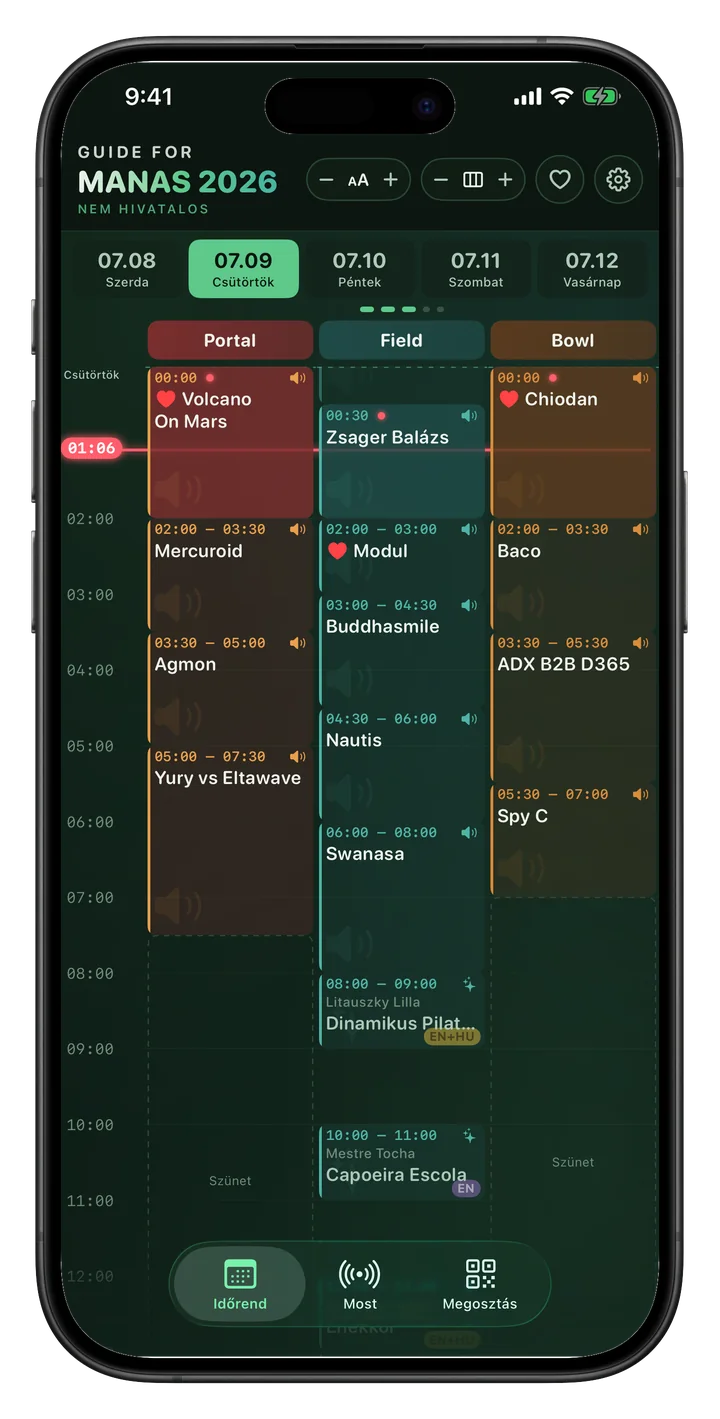
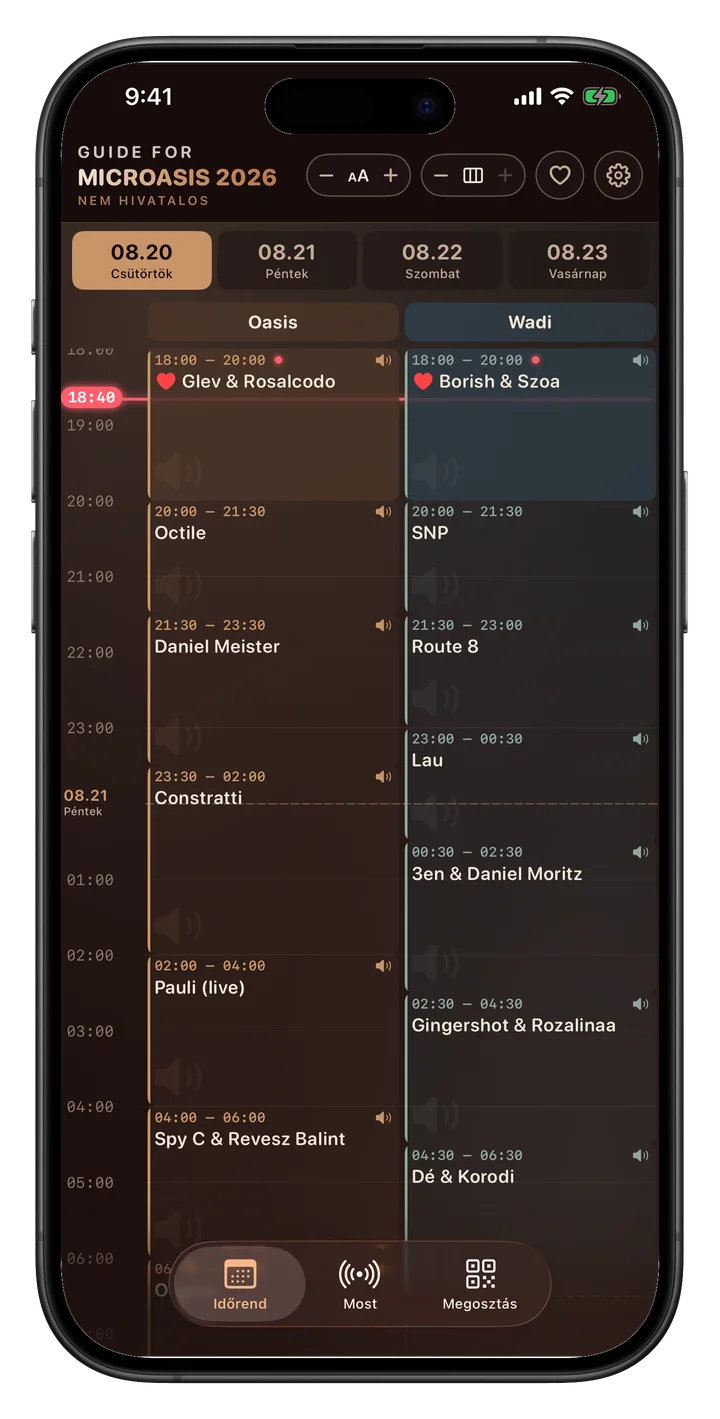
feat: regenerate every marketing asset for MicrOasis
New simulator captures (14 shots × HU/EN) replace the Manas ones, driven by the
rewritten shot list: opening-evening timetable, a live Friday Now, the Wadi's
single-column view, the camp scene, both home widgets, the favorites filter,
and the watch cards including its quiet Sunday-daytime break.

From those, the landing pipeline rebuilds the framed phone/watch images, the
hero composites and the OpenGraph card. The builder's own palette was still the
Manas forest green — the OG background ramp, the "2026" in the wordmark and the
trust pills are now the earthy tokens, mirroring globals.css.

Shot keys are renamed through the whole chain (screenshots.yaml →
build_landing_images.py → lib/showcase.ts → WatchSection), and STAGE_ACCENTS
drops the three stages that no longer exist.

diff --git a/pwa/components/showcase/WatchSection.tsx b/pwa/components/showcase/WatchSection.tsx
@@ -26,21 +26,21 @@ export function WatchSection() {
           <Reveal className="flex items-center justify-center">
             <Framed
               kind="watch"
-              src={framedWatch(locale, "nowTerrace")}
+              src={framedWatch(locale, "nowWadi")}
               alt="Apple Watch — Terrace"
               className="z-0 w-[30vw] max-w-[124px] -rotate-[14deg] translate-y-4 opacity-75"
               sizes="124px"
             />
             <Framed
               kind="watch"
-              src={framedWatch(locale, "nowPortal")}
+              src={framedWatch(locale, "nowOasis")}
               alt="Apple Watch — Portal"
               className="z-10 -mx-6 w-[42vw] max-w-[176px]"
               sizes="(max-width: 640px) 42vw, 176px"
             />
             <Framed
               kind="watch"
-              src={framedWatch(locale, "nowMandala")}
+              src={framedWatch(locale, "nowQuiet")}
               alt="Apple Watch — Mandala"
               className="z-0 w-[30vw] max-w-[124px] rotate-[14deg] translate-y-4 opacity-75"
               sizes="124px"
@@ -61,7 +61,7 @@ export function WatchSection() {
           <Reveal className="flex items-center justify-center sm:order-2">
             <Framed
               kind="watch"
-              src={framedWatch(locale, "widgetField")}
+              src={framedWatch(locale, "widgetWadi")}
               alt="Smart Stack widget — Field"
               className="z-0 w-[32vw] max-w-[140px] -rotate-[10deg] translate-y-3 opacity-80"
               glow={field}
@@ -69,7 +69,7 @@ export function WatchSection() {
             />
             <Framed
               kind="watch"
-              src={framedWatch(locale, "widgetPortal")}
+              src={framedWatch(locale, "widgetOasis")}
               alt="Smart Stack widget — Portal"
               className="z-10 -ml-6 w-[42vw] max-w-[176px]"
               glow={portal}

diff --git a/pwa/lib/showcase.ts b/pwa/lib/showcase.ts
@@ -21,18 +21,18 @@ export const PHONE_SHOTS = {
   timetableThu: "iphone-01-timetable-thursday",
   timetableFri: "iphone-02-timetable-friday",
   now: "iphone-03-now-friday",
-  terrace: "iphone-04-timetable-terrace",
+  wadi: "iphone-04-timetable-wadi",
   settings: "iphone-05-settings",
   widgets: "iphone-09-widgets",
   favorites: "iphone-10-favorites",
 } as const;
 
 export const WATCH_SHOTS = {
-  nowPortal: "watch-01-now-portal",
-  nowTerrace: "watch-02-now-terrace",
-  nowMandala: "watch-03-now-mandala",
-  widgetPortal: "watch-04-widget-portal",
-  widgetField: "watch-05-widget-field",
+  nowOasis: "watch-01-now-oasis",
+  nowWadi: "watch-02-now-wadi",
+  nowQuiet: "watch-03-now-quiet",
+  widgetOasis: "watch-04-widget-oasis",
+  widgetWadi: "watch-05-widget-wadi",
 } as const;
 
 export type PhoneShot = keyof typeof PHONE_SHOTS;
@@ -56,9 +56,7 @@ export function framedHero(locale: Locale): string {
 // Stage slug → the exact DB accent color from scripts/seed.ts — used for the
 // faint per-stage glow on the watch widget cards.
 export const STAGE_ACCENTS: Record<string, string> = {
-  portal: "#e8a04c",
-  field: "#4fb3a6",
-  bowl: "#d98c3a",
+  oasis: "#c89468",
+  wadi: "#8fa69b",
   terrace: "#93c06a",
-  mandala: "#b79be0",
 };

diff --git a/pwa/lib/landing-version.ts b/pwa/lib/landing-version.ts
@@ -1,3 +1,3 @@
 // AUTO-GENERATED by pwa/scripts/build_landing_images.py — cache-busts the
 // framed landing images (their filenames are stable) on every regeneration.
-export const LANDING_IMG_V = "1783398555";
+export const LANDING_IMG_V = "1786538291";

diff --git a/pwa/scripts/build_landing_images.py b/pwa/scripts/build_landing_images.py
@@ -62,22 +62,22 @@ SHARP = PWA / "node_modules" / "sharp"
 IPHONE_FRAME, IPHONE_SIZE = "iPhone 15 Pro - Black Titanium - Portrait", [1419, 2796]
 IPHONE_SHOTS = [
     "iphone-01-timetable-thursday", "iphone-02-timetable-friday",
-    "iphone-03-now-friday", "iphone-04-timetable-terrace", "iphone-05-settings",
+    "iphone-03-now-friday", "iphone-04-timetable-wadi", "iphone-05-settings",
     "iphone-09-widgets", "iphone-10-favorites",
 ]
 WATCH_SHOTS = [
-    "watch-01-now-portal", "watch-02-now-terrace", "watch-03-now-mandala",
-    "watch-04-widget-portal", "watch-05-widget-field",
+    "watch-01-now-oasis", "watch-02-now-wadi", "watch-03-now-quiet",
+    "watch-04-widget-oasis", "watch-05-widget-wadi",
 ]
 IPHONE_OUT_W = 720
 HERO_PHONE = "iphone-01-timetable-thursday"
-HERO_WATCH = "watch-01-now-portal"
+HERO_WATCH = "watch-01-now-oasis"
 
-CREAM = (237, 244, 236)
-CREAM_DIM = (174, 200, 182)
-TEAL = (70, 179, 163)
-SUN = (94, 201, 138)
-INK = (12, 22, 17)
+CREAM = (242, 231, 216)      # --color-cream  #f2e7d8
+CREAM_DIM = (194, 171, 152)  # --color-cream-dim  #c2ab98
+TEAL = (143, 166, 155)       # --color-teal  #8fa69b
+SUN = (200, 148, 104)        # --color-sun  #c89468
+INK = (23, 12, 11)           # --color-ink  #170c0b
 
 
 def save_webp(im: Image.Image, dst: Path) -> None:
@@ -200,15 +200,15 @@ def smooth_glow(size, color, alpha, blur):
 
 
 def gradient_bg() -> Image.Image:
-    # smooth top→bottom forest ramp + ONE big soft top-left glow (a second glow
+    # smooth top→bottom earth ramp + ONE big soft top-left glow (a second glow
     # near the right read as a vertical seam) + fine noise dither to kill banding.
-    top, bot = (21, 40, 29), (9, 16, 13)
+    top, bot = (43, 26, 21), (18, 10, 9)
     ramp = Image.new("RGB", (1, 630))
     for y in range(630):
         t = y / 629
         ramp.putpixel((0, y), tuple(round(top[i] * (1 - t) + bot[i] * t) for i in range(3)))
     base = ramp.resize((1200, 630)).convert("RGBA")
-    base.alpha_composite(smooth_glow((1700, 1300), (46, 107, 74), 52, 340), (-260, -360))
+    base.alpha_composite(smooth_glow((1700, 1300), (100, 81, 69), 52, 340), (-260, -360))
     noise = Image.effect_noise((1200, 630), 7).convert("L")
     return Image.alpha_composite(base, Image.merge("RGBA", (noise, noise, noise, noise.point(lambda v: 7))))
 
@@ -407,9 +407,9 @@ def build_og() -> None:
     # equal geometry looked bigger — undersizing evens them out to the eye.
     base.alpha_composite(android_badge(46), (x + badge.width + 14, BADGE_Y + 2))
     chips(base, x, CHIPS_BOTTOM,
-          [("Ingyenes", "gift", "#5ec98a"),
-           ("Regisztráció nélkül", "user-x", "#46b3a3"),
-           ("Reklámmentes", "ban", "#e0913f")],
+          [("Ingyenes", "gift", "#c89468"),
+           ("Regisztráció nélkül", "user-x", "#8fa69b"),
+           ("Reklámmentes", "ban", "#b5764a")],
           font("Inter-Regular.ttf", 15))
 
     OG_OUT.parent.mkdir(parents=True, exist_ok=True)

diff --git a/apple/screenshots/README.md b/apple/screenshots/README.md
@@ -15,7 +15,7 @@ pip3 install pyyaml && python3 make_screenshots.py
 ```
 
 Output lands in `hu/` and `en/` sub-folders, named `iphone-01-timetable-thursday.png`,
-`watch-01-now-portal.png`, etc.
+`watch-01-now-oasis.png`, etc.
 
 Flags: `--no-build` (reuse the app already on the sim — much faster while tuning
 the config), `--lang hu`, `--only 05` (substring-match shot names), `--keep-status-bar`.
